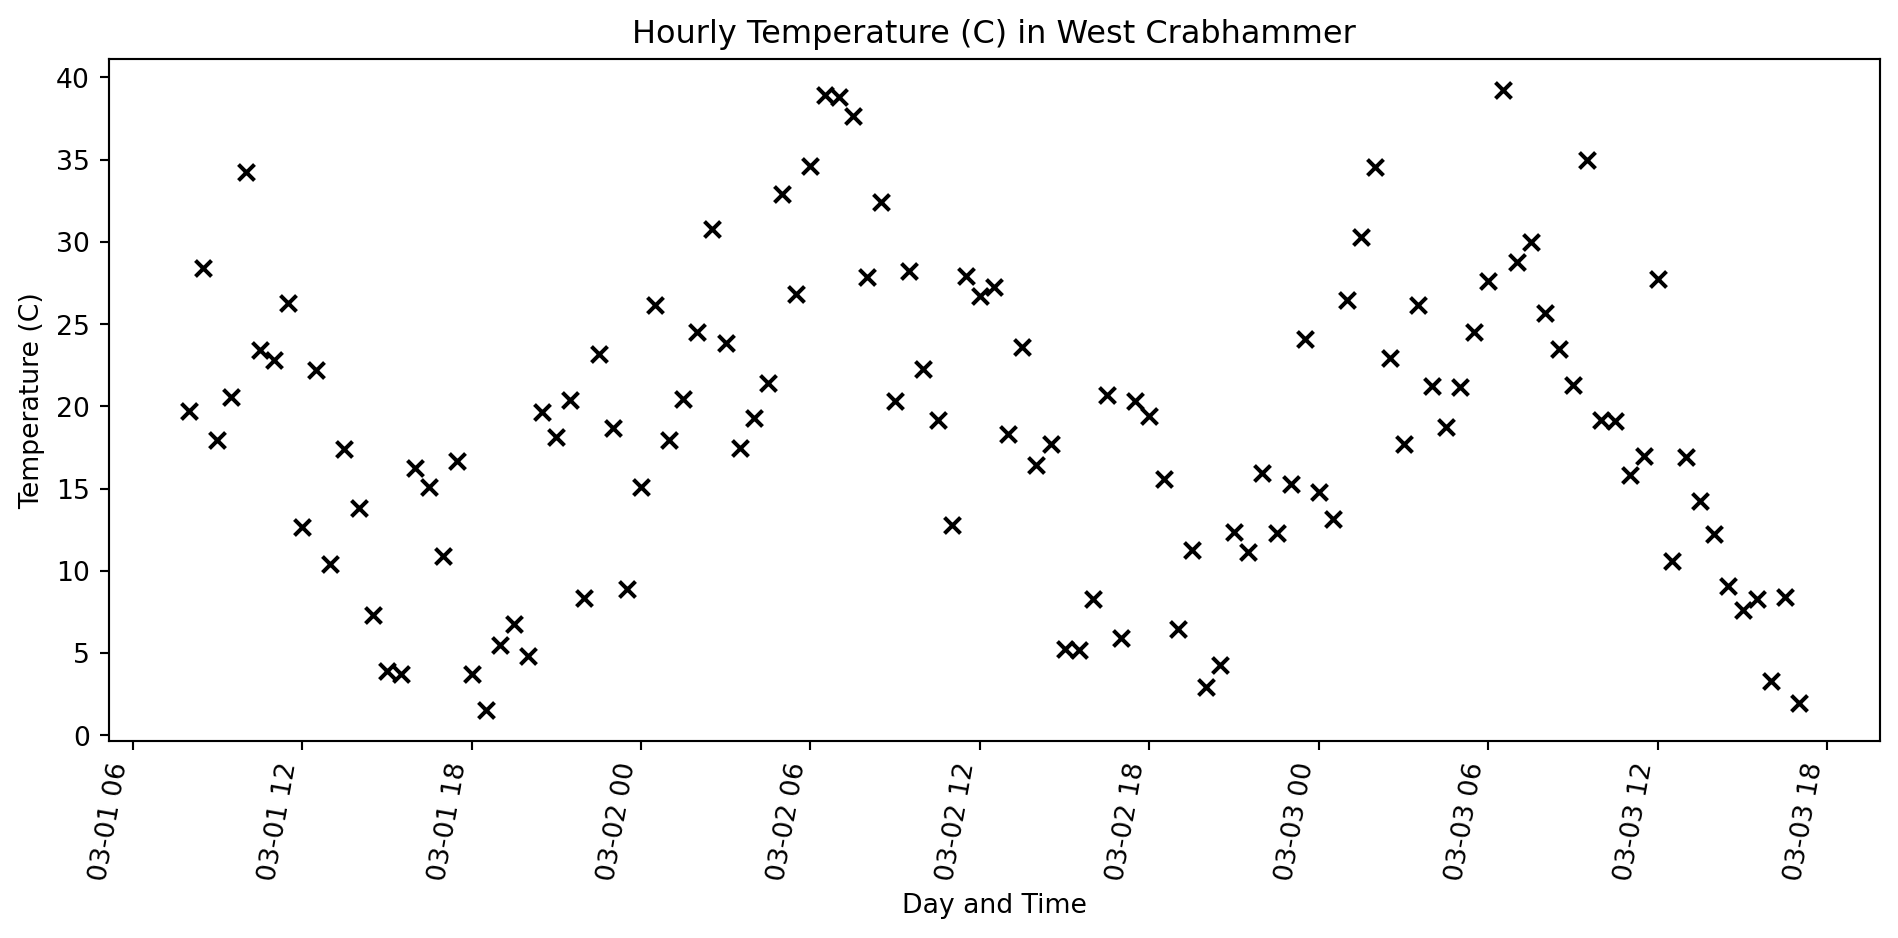
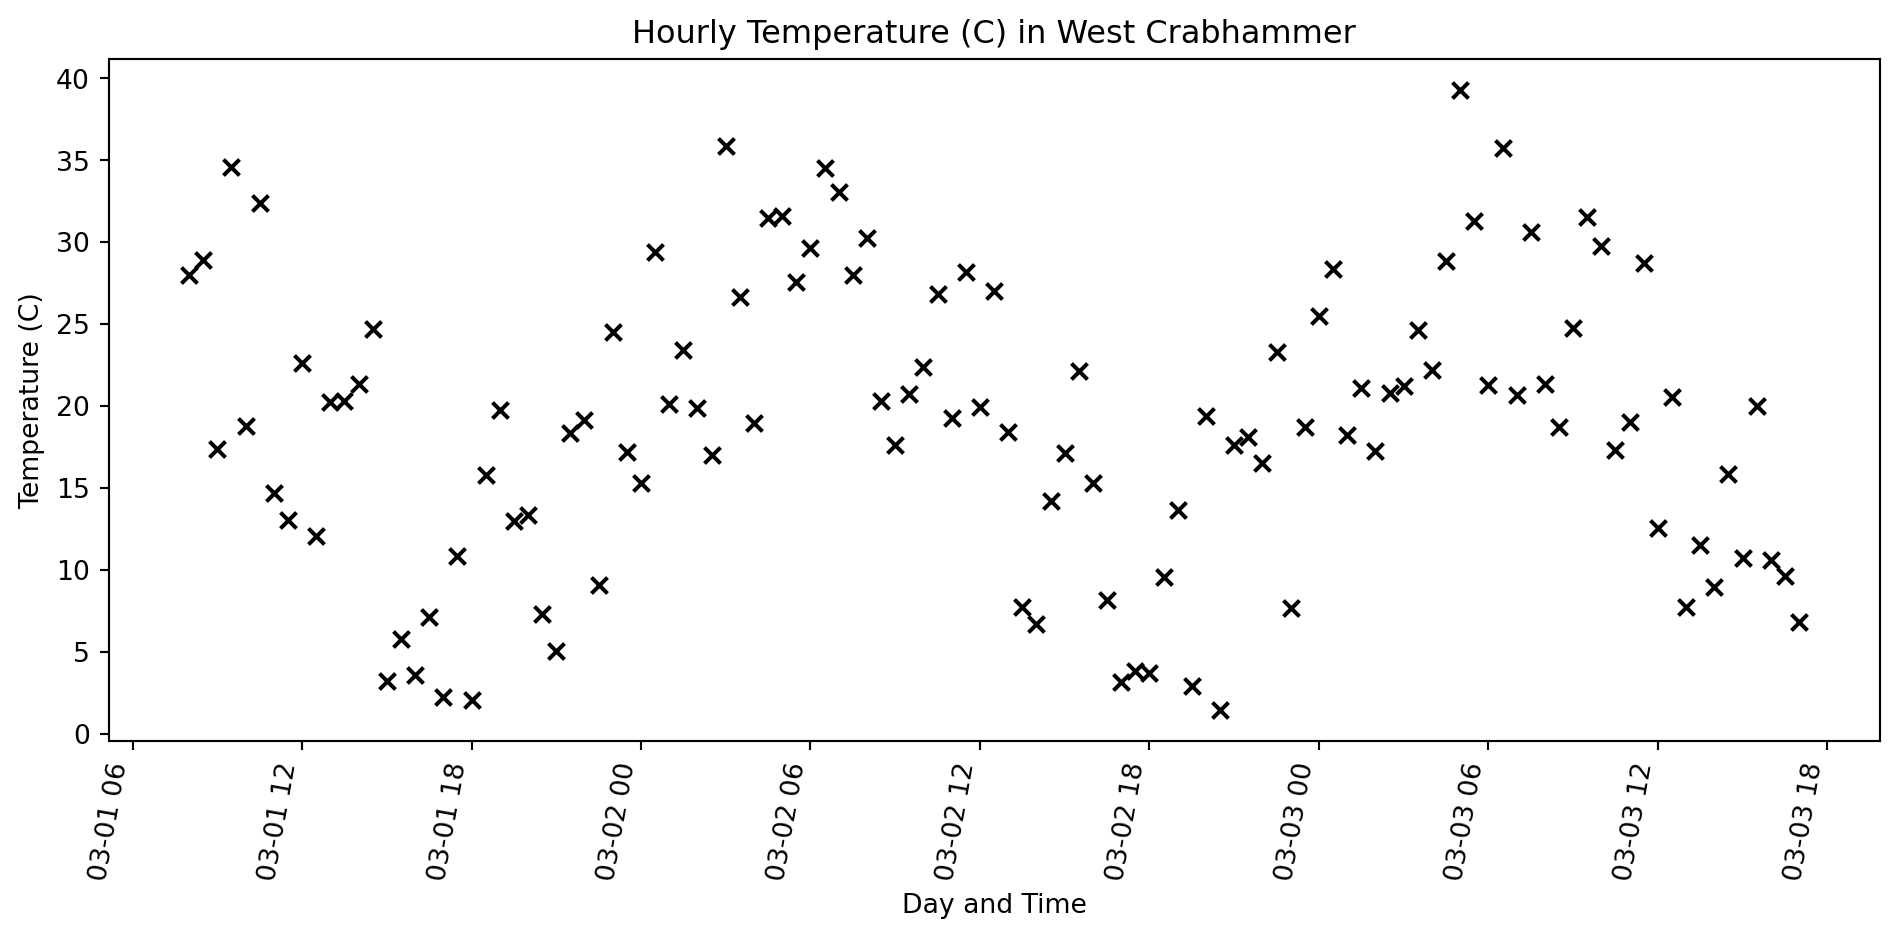
back to reveal

diff --git a/docs/python_geospatial_basics.html b/docs/python_geospatial_basics.html
@@ -242,8 +242,10 @@
 <section id="starting-a-jupyter-lab" class="slide level2">
 <h2>Starting a Jupyter Lab</h2>
 <div class="sourceCode" id="cb4"><pre class="sourceCode numberSource {bash} number-lines code-with-copy"><code class="sourceCode"><span id="cb4-1"><a></a>jupyter lab</span></code><button title="Copy to Clipboard" class="code-copy-button"><i class="bi"></i></button></pre></div>
-<p>This will open a new jupyter lab in your browser.<br>
-## Using VScode</p>
+<p>This will open a new jupyter lab in your browser.</p>
+</section>
+<section id="using-vscode" class="slide level2">
+<h2>Using VScode</h2>
 <p>Running Jupyter in VScode offers some advantages (in my opinion). To do this you need to install the jupyter extension and the Python Extension. Then when you open a file with a .ipynb extension it will be treated as a Jupyter notebook.</p>
 </section>
 <section id="basic-python-data-types" class="slide level2 scrollable">
@@ -294,7 +296,7 @@
 <section id="basic-numbers" class="slide level2">
 <h2>Basic Numbers</h2>
 <p>Floats and Ints don’t do anything all that surprising</p>
-<div id="aca880ee" class="cell columns column-output-location" data-execution_count="1">
+<div id="c6663876" class="cell columns column-output-location" data-execution_count="1">
 <div class="column">
 <div class="sourceCode cell-code" id="cb5"><pre class="sourceCode numberSource python number-lines code-with-copy"><code class="sourceCode python"><span id="cb5-1"><a></a>a <span class="op">=</span> <span class="dv">2</span> <span class="op">+</span> <span class="dv">2</span></span>
 <span id="cb5-2"><a></a>b <span class="op">=</span> <span class="fl">2.0</span> <span class="op">+</span> <span class="fl">2.0</span></span>
@@ -319,11 +321,14 @@ but 5 // 4 is 1
 and 5 % 4 is 1</code></pre>
 </div>
 </div></div>
+<p class="noteBoxes type2">
+Tip information box
+</p>
 </section>
 <section id="sequences" class="slide level2">
 <h2>Sequences</h2>
 <p>Lists, tuples, and strings ae all sequences</p>
-<div id="03ed0c2e" class="cell columns column-output-location" data-execution_count="2">
+<div id="e77e129a" class="cell columns column-output-location" data-execution_count="2">
 <div class="column">
 <div class="sourceCode cell-code" id="cb7"><pre class="sourceCode numberSource python number-lines code-with-copy"><code class="sourceCode python"><span id="cb7-1"><a></a><span class="co"># a list</span></span>
 <span id="cb7-2"><a></a>a_list <span class="op">=</span> [<span class="dv">1</span>, <span class="dv">2</span>, <span class="dv">3</span>, <span class="dv">4</span>, <span class="dv">5</span>, <span class="dv">6</span>, <span class="dv">7</span>, <span class="dv">8</span>, <span class="dv">9</span>]</span>
@@ -368,7 +373,7 @@ neushorn?</code></pre>
 <a href="https://labex.io/tutorials/python-how-to-manipulate-list-sequences-in-python-419858">Sequences tutorial</a><br>
 <a href="https://www.youtube.com/watch?v=n3KMrwmq_94">Sequence tutorial as video</a></p>
 <p>The key difference is that tuples are immutable.</p>
-<div id="69788743" class="cell columns column-output-location" data-execution_count="3">
+<div id="1293284a" class="cell columns column-output-location" data-execution_count="3">
 <div class="column">
 <div class="sourceCode cell-code" id="cb9"><pre class="sourceCode numberSource python number-lines code-with-copy"><code class="sourceCode python"><span id="cb9-1"><a></a>a_list[<span class="dv">1</span>] <span class="op">=</span> <span class="dv">256</span></span>
 <span id="cb9-2"><a></a></span>
@@ -389,7 +394,7 @@ Cell <span class="ansi-green-fg">In[3], line 3</span>
 </section>
 <section id="dictionaries" class="slide level2">
 <h2>Dictionaries</h2>
-<div id="2bb9b28f" class="cell columns column-output-location" data-execution_count="4">
+<div id="d78537ac" class="cell columns column-output-location" data-execution_count="4">
 <div class="column">
 <div class="sourceCode cell-code" id="cb10"><pre class="sourceCode numberSource python number-lines code-with-copy"><code class="sourceCode python"><span id="cb10-1"><a></a>pets <span class="op">=</span> {<span class="st">'honden'</span>: <span class="dv">26</span>, <span class="st">'katten'</span>: <span class="dv">100</span>}</span>
 <span id="cb10-2"><a></a></span>
@@ -408,7 +413,7 @@ Cell <span class="ansi-green-fg">In[3], line 3</span>
 </section>
 <section id="iterating" class="slide level2">
 <h2>Iterating</h2>
-<div id="2478c3af" class="cell columns column-output-location" data-execution_count="5">
+<div id="699c71f1" class="cell columns column-output-location" data-execution_count="5">
 <div class="column">
 <div class="sourceCode cell-code" id="cb12"><pre class="sourceCode numberSource python number-lines code-with-copy"><code class="sourceCode python"><span id="cb12-1"><a></a>a <span class="op">=</span> [<span class="dv">1</span>, <span class="dv">2</span>, <span class="dv">3</span>, <span class="dv">4</span>, <span class="dv">5</span>, <span class="dv">6</span>, <span class="dv">7</span>, <span class="dv">8</span>, <span class="dv">9</span>]</span>
 <span id="cb12-2"><a></a></span>
@@ -439,7 +444,7 @@ is the same as
 <li>can return something</li>
 <li>have there own scope</li>
 </ul>
-<div id="871394a5" class="cell columns column-output-location" data-execution_count="6">
+<div id="9ca26834" class="cell columns column-output-location" data-execution_count="6">
 <div class="column">
 <div class="sourceCode cell-code" id="cb14"><pre class="sourceCode numberSource python number-lines code-with-copy"><code class="sourceCode python"><span id="cb14-1"><a></a><span class="im">import</span> numpy <span class="im">as</span> np</span>
 <span id="cb14-2"><a></a></span>
@@ -461,7 +466,7 @@ is the same as
 </div>
 </div></div>
 <p>They do nat have to have arguments or return stuff.</p>
-<div id="09420a3b" class="cell columns column-output-location" data-execution_count="7">
+<div id="777ddcfa" class="cell columns column-output-location" data-execution_count="7">
 <div class="column">
 <div class="sourceCode cell-code" id="cb16"><pre class="sourceCode numberSource python number-lines code-with-copy"><code class="sourceCode python"><span id="cb16-1"><a></a><span class="kw">def</span> complain():</span>
 <span id="cb16-2"><a></a>  <span class="bu">print</span>(<span class="st">'This is boring!</span><span class="ch">\n</span><span class="st">when will we get to the GIS stuff.</span><span class="ch">\n\U0001F620\U0001F620\U0001F620\n\n</span><span class="st">Soon! Bear with me.'</span>)</span>
@@ -480,7 +485,7 @@ Soon! Bear with me.</code></pre>
 <section id="pandas-dataframe" class="slide level2 smaller scrollable">
 <h2>Pandas DataFrame</h2>
 <p>DataFrames hold tabular data</p>
-<div id="af422ff5" class="cell" data-execution_count="8">
+<div id="ee88658a" class="cell" data-execution_count="8">
 <div class="sourceCode cell-code" id="cb18"><pre class="sourceCode numberSource python number-lines code-with-copy"><code class="sourceCode python"><span id="cb18-1"><a></a><span class="im">from</span> datetime <span class="im">import</span> datetime, timedelta</span>
 <span id="cb18-2"><a></a><span class="im">from</span> random <span class="im">import</span> uniform</span>
 <span id="cb18-3"><a></a><span class="im">import</span> matplotlib.pyplot <span class="im">as</span> plt</span>
@@ -543,27 +548,27 @@ Soon! Bear with me.</code></pre>
 <tr class="odd">
 <td data-quarto-table-cell-role="th">0</td>
 <td>2025-03-01 08:00:00</td>
-<td>19.745260</td>
+<td>28.005833</td>
 </tr>
 <tr class="even">
 <td data-quarto-table-cell-role="th">1</td>
 <td>2025-03-01 08:30:00</td>
-<td>28.432311</td>
+<td>28.893028</td>
 </tr>
 <tr class="odd">
 <td data-quarto-table-cell-role="th">2</td>
 <td>2025-03-01 09:00:00</td>
-<td>17.976625</td>
+<td>17.355761</td>
 </tr>
 <tr class="even">
 <td data-quarto-table-cell-role="th">3</td>
 <td>2025-03-01 09:30:00</td>
-<td>20.588081</td>
+<td>34.573264</td>
 </tr>
 <tr class="odd">
 <td data-quarto-table-cell-role="th">4</td>
 <td>2025-03-01 10:00:00</td>
-<td>34.254868</td>
+<td>18.750326</td>
 </tr>
 </tbody>
 </table>
@@ -574,7 +579,7 @@ Soon! Bear with me.</code></pre>
 </section>
 <section id="pandas-dataframe-cont." class="slide level2 scrollable">
 <h2>Pandas DataFrame Cont.</h2>
-<div id="8bfaae0f" class="cell columns column-output-location" data-execution_count="9">
+<div id="f1cc7ba4" class="cell columns column-output-location" data-execution_count="9">
 <div class="column">
 <div class="sourceCode cell-code" id="cb19"><pre class="sourceCode numberSource python number-lines code-with-copy"><code class="sourceCode python"><span id="cb19-1"><a></a>fig, ax <span class="op">=</span> plt.subplots()</span>
 <span id="cb19-2"><a></a></span>
@@ -603,17 +608,17 @@ Soon! Bear with me.</code></pre>
 </div>
 </div>
 </div></div>
-<div id="ebd9dd38" class="cell columns column-output-location" data-execution_count="10">
+<div id="e42b580d" class="cell columns column-output-location" data-execution_count="10">
 <div class="column">
 <div class="sourceCode cell-code" id="cb20"><pre class="sourceCode numberSource python number-lines code-with-copy"><code class="sourceCode python"><span id="cb20-1"><a></a><span class="co"># get the mean temperature over the timeseries</span></span>
 <span id="cb20-2"><a></a>df[<span class="st">'T (C)'</span>].mean()</span></code><button title="Copy to Clipboard" class="code-copy-button"><i class="bi"></i></button></pre></div>
 </div><div class="column">
 <div class="cell-output cell-output-display" data-execution_count="10">
-<pre><code>np.float64(18.630334781681217)</code></pre>
+<pre><code>np.float64(18.814390419757128)</code></pre>
 </div>
 </div></div>
 <p>When there are no spaces in a column name you can access the column as an attribute of the datafame.</p>
-<div id="5a66e7c9" class="cell columns column-output-location" data-execution_count="11">
+<div id="40ce238f" class="cell columns column-output-location" data-execution_count="11">
 <div class="column">
 <div class="sourceCode cell-code" id="cb22"><pre class="sourceCode numberSource python number-lines code-with-copy"><code class="sourceCode python"><span id="cb22-1"><a></a><span class="co"># get the number of time stamps in the date_time column</span></span>
 <span id="cb22-2"><a></a>df.date_time.count()</span></code><button title="Copy to Clipboard" class="code-copy-button"><i class="bi"></i></button></pre></div>
@@ -679,7 +684,7 @@ Soon! Bear with me.</code></pre>
 </section>
 <section id="polygon" class="slide level2">
 <h2>Polygon</h2>
-<div id="19645700" class="cell columns column-output-location" data-execution_count="12">
+<div id="4c83350b" class="cell columns column-output-location" data-execution_count="12">
 <div class="column">
 <div class="sourceCode cell-code" id="cb24"><pre class="sourceCode numberSource python number-lines code-with-copy"><code class="sourceCode python"><span id="cb24-1"><a></a><span class="im">from</span> shapely <span class="im">import</span> Polygon</span>
 <span id="cb24-2"><a></a></span>
@@ -706,7 +711,7 @@ Soon! Bear with me.</code></pre>
 <section id="reading-files" class="slide level2">
 <h2>Reading Files</h2>
 <p>Here we will read a geojson using the <code>read_file</code> method.</p>
-<div id="6bb35fd5" class="cell columns column-output-location" data-execution_count="13">
+<div id="53fc347d" class="cell columns column-output-location" data-execution_count="13">
 <div class="column">
 <div class="sourceCode cell-code" id="cb26"><pre class="sourceCode numberSource python number-lines code-with-copy"><code class="sourceCode python"><span id="cb26-1"><a></a><span class="im">from</span> pathlib <span class="im">import</span> Path</span>
 <span id="cb26-2"><a></a><span class="im">import</span> geopandas <span class="im">as</span> gpd</span>
